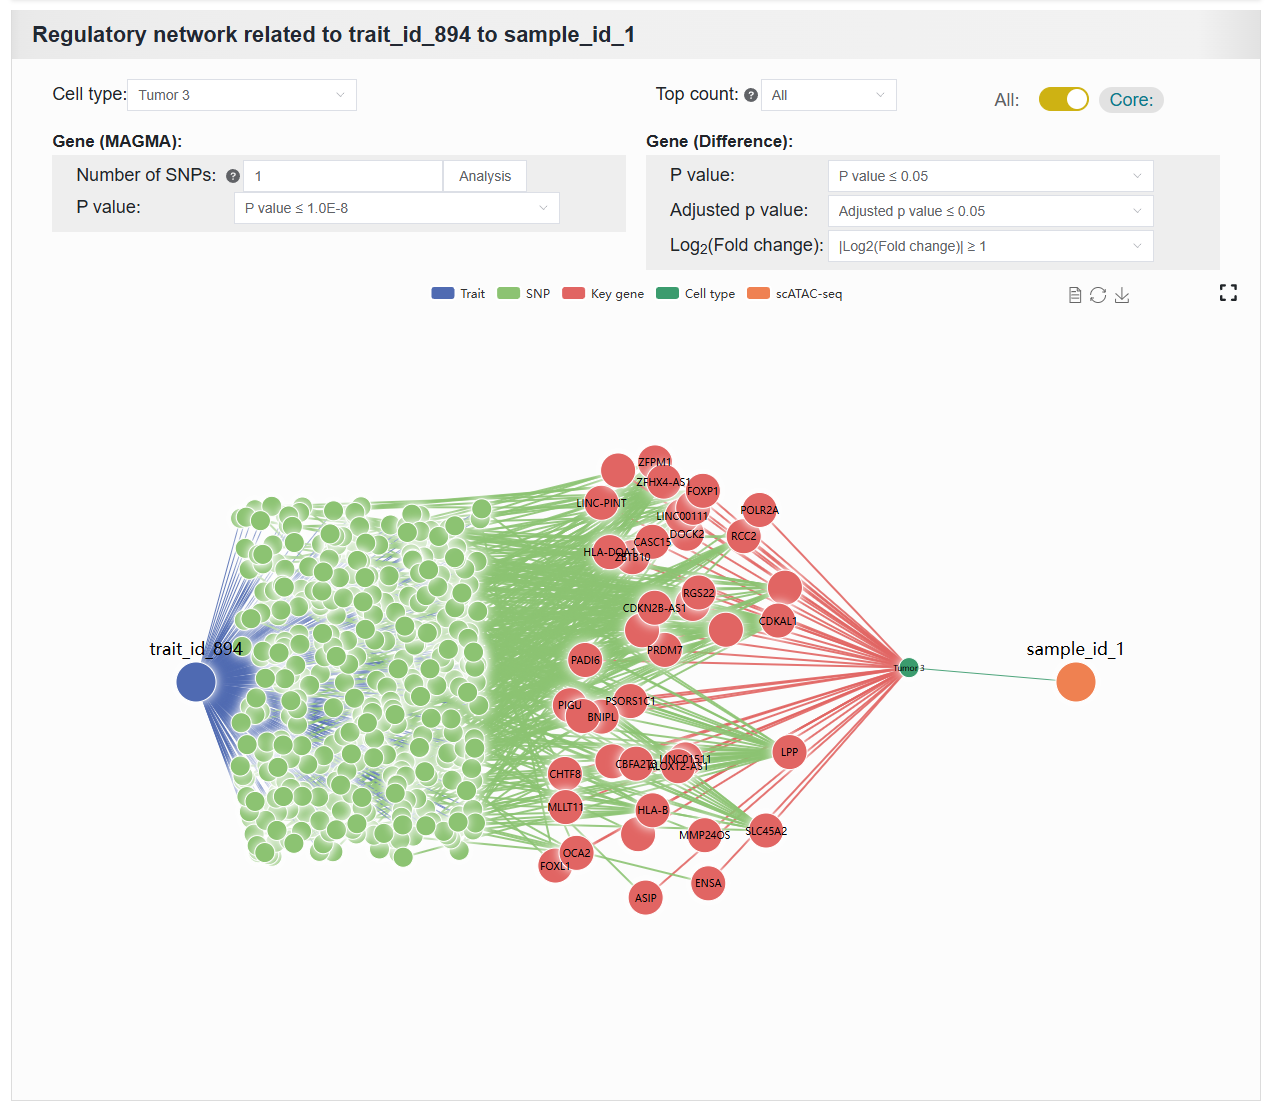
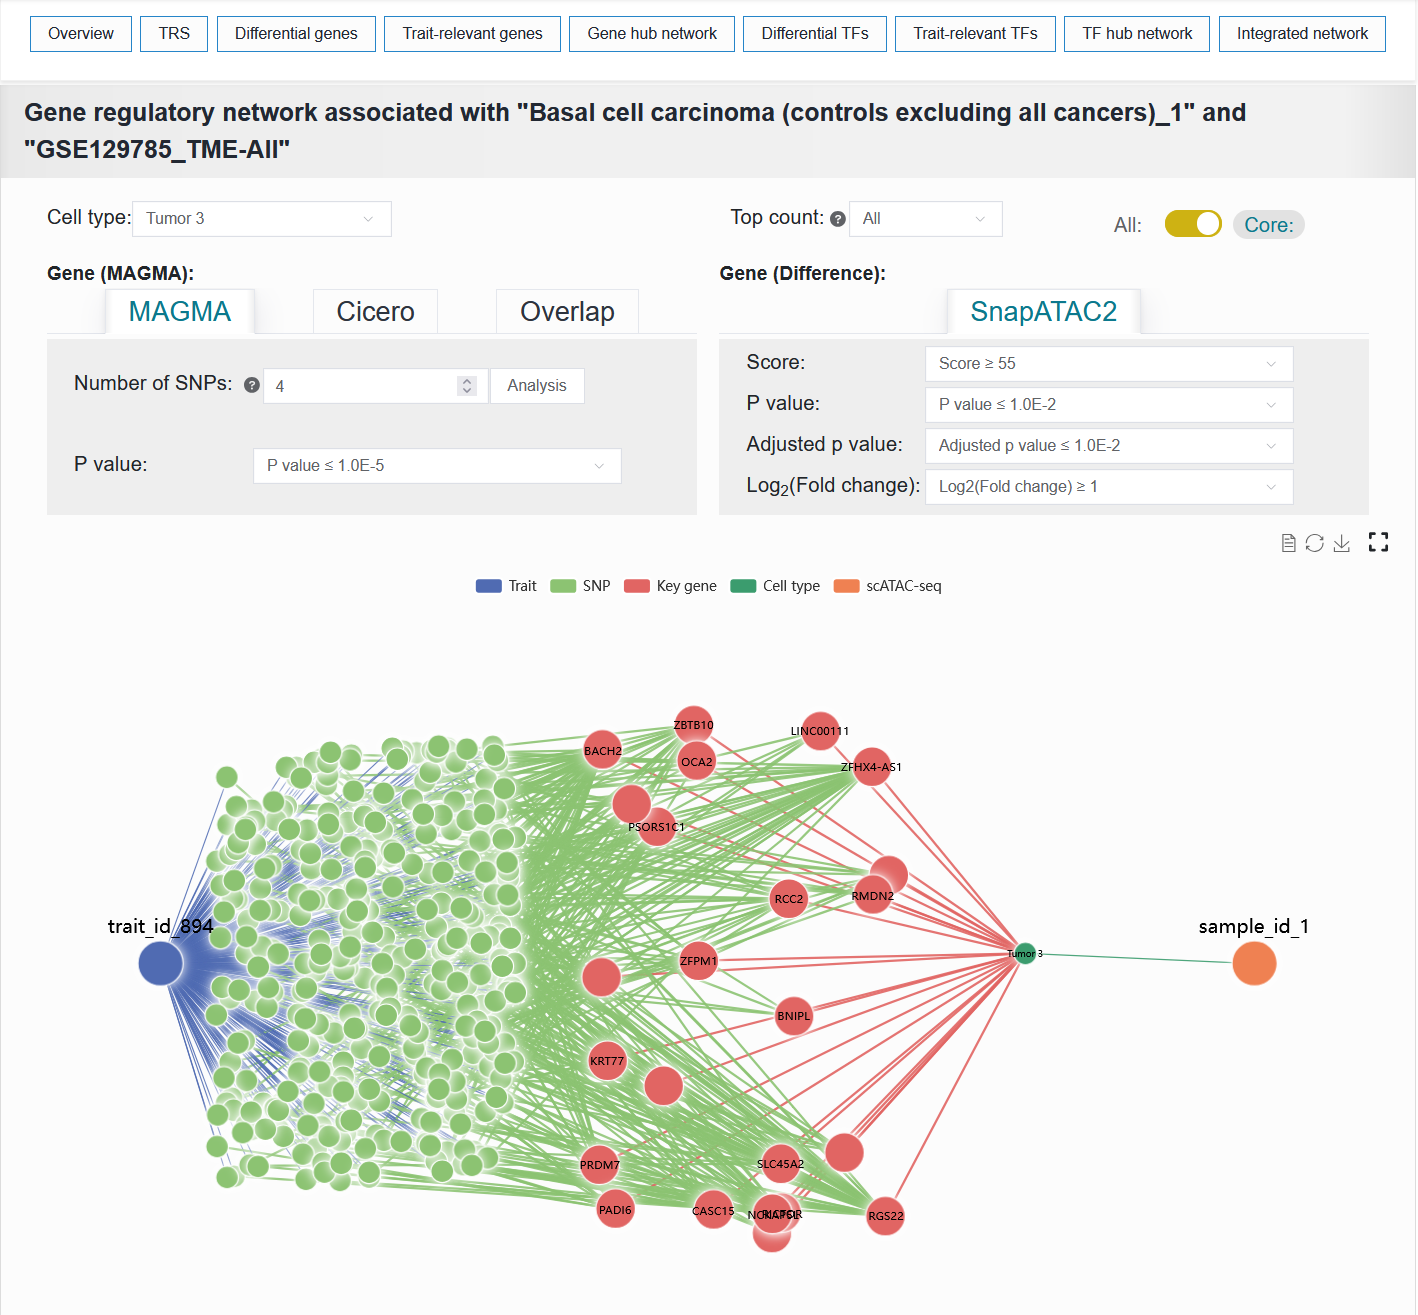
feat: Improve detail information

diff --git a/docs/source/usage/detail.rst b/docs/source/usage/detail.rst
@@ -213,6 +213,11 @@ For example: AD (sample_id_20 + trait_id_14530)
 2.4.4 Trait-relevant genes
 ^^^^^^^^^^^^^^^^^^^^^^^^^^^^^^^
 
+Users can select either the trait-relevant gene results or the V2G annotation information.
+
+2.4.4.1 Type: Trait-relevant genes
+""""""""""""""""""""""""""""""""""""
+
 For a selected trait, scVMAP displays:
 
 1. ``MAGMA``: A table of gene-level analysis results from LD-based MAGMA and a bubble plot showing the results of the gene pathway enrichment analysis for the genes associated with the LD-based MAGMA analysis.
@@ -222,11 +227,32 @@ For example: BCC (sample_id_1 + trait_id_894)
 
 .. image:: ../img/detail/trait_relevant_gene.png
 
+In gene set enrichment analysis, setting the ``P value`` to ``≤ 1.0E-6`` allows for the reproduction of the results for the BCC case study presented in the paper.
+
+.. image:: ../img/detail/trait_relevant_gene_gsea.png
+
 Enter ``RCC2``, then click the ``View`` button to see detailed variant information associated with this gene.
 
 .. image:: ../img/detail/magma_view.png
 
+For example: AD (sample_id_20 + trait_id_14530)
 
+Clicking the "View overlap" button displays the overlap between the gene sets derived from the selected trait (e.g. trait_id_14530) through ATAC-based Cicero and LD-MAGMA analyses. (The reproduction of the results for the AD case study presented in the paper.)
+
+.. image:: ../img/detail/trait_relevant_gene_overlap.png
+
+1. Gene overlap information: The overlap of gene sets identified by the two methods.
+#. Overlapping gene-relevant SNPs network: This network consists solely of SNPs associated with overlapping genes. Here, the ``SNP (Both)`` refers to the intersection of the SNP sets associated with overlapping genes that were identified by both methods.
+#. Number of overlapping SNP-relevant genes in overlapping gene contexts: The plot shows overlapping SNPs annotated by the number of overlapping genes. The x-axis represents the overlapping SNPs, and the y-axis represents the number of overlapping genes associated with each SNP.
+
+2.4.4.2 Type: V2G annotation
+""""""""""""""""""""""""""""""""
+
+For a selected trait, any variant within the trait is annotated if it is present in eQTL, MPRA, and 3D chromatin interaction data.
+
+For example: AD (sample_id_20 + trait_id_14530)
+
+.. image:: ../img/detail/trait_relevant_gene_v2g_annotation.png
 
 
 2.4.5 Gene hub network
@@ -234,6 +260,21 @@ Enter ``RCC2``, then click the ``View`` button to see detailed variant informati
 
 To systematically investigate the association mechanisms between target traits and specific cell types, we integrated data from two key dimensions: the genetic variation dimension (trait-SNP-effect gene association data) and the cell-type-specific dimension (sample-cell type-differential gene), to construct a trait-cell type association network. This network helps reveal the multi-level regulatory paths through which traits influence cell types and identifies core gene sets.
 
+For example: BCC (sample_id_1 + trait_id_894)
+
+The ``Gene hub network`` result of the BCC case can be reproduced with the following parameter settings:
+
+ | Cell type: ``Tumor 3``
+ | Top count: ``All``
+ | ``Core``
+ | Gene (MAGMA): ``MAGMA``
+ |     Number of SNPs: ``4``
+ |     P value: ``≤ 1.0E-5``
+ | Gene (Difference):
+ |     Score: ``≥ 55``
+ |     P value: ``≤ 1.0E-2``
+ |     Adjusted p value: ``≤ 1.0E-2``
+ |     Log2(Fold change): ``≥ 1``
 
 
 .. image:: ../img/detail/gene_hub_network.png
@@ -246,6 +287,8 @@ To systematically investigate the association mechanisms between target traits a
 ^^^^^^^^^^^^^^^^^^^^^^^^^^^^^^^
 
 It displays a data table and heatmap of the differences TF between cell types.
+
+For example: BCC (sample_id_1 + trait_id_894)
 
 .. image:: ../img/detail/differential_tfs.png
 
@@ -261,4 +304,47 @@ It displays the results of TF enrichment analysis for this trait using HOMER.
 
 Similar to panel ``Gene hub network``, this panel constructs a network graph from trait to cell type to identify key TFs involved in the regulatory process.
 
+The ``TF hub network`` result of the BCC case can be reproduced with the following parameter settings:
+
+ | Cell type: ``Tumor 3``
+ | ``All``
+ | Trait-relevant TFs: ``HOMER``
+ |     P value: ``≤ 0.05``
+ |     Q value: ``≤ 0.05``
+ | TF (Difference): ``SnapATAC2``
+ |     P value: ``≤ 0.05``
+ |     Adjusted p value: ``≤ 0.05``
+ |     Log2(Fold change): ``≥ 0.6``
+
 .. image:: ../img/detail/tf_hub_network.png
+
+2.4.9 Integrated network
+^^^^^^^^^^^^^^^^^^^^^^^^^^^^^^^
+
+This module visualizes the integrated network composed of traits, variants, TFs, genes and cell types.
+
+To facilitate understanding of how traits influence biological functions and disease susceptibility through specific cell types, we constructed a trait-cell type association network linked by genes and TFs, termed the gene-TF co-regulatory network. This integrative network leverages open chromatin as a bridge to capture the interaction links among genes, TFs, and variants, thereby establishing the core architecture of the regulatory landscape. In this three-way relationship, V2G and V2TF are obtained from the aforementioned the trait-relevant genes and TFs process. The TF-to-gene (TF2G) linking strategy is established based on peak co-accessibility associations, utilizing the BEDTools tool. Furthermore, numerous susceptibility-associated variant sites have been documented for traits or diseases, thereby establishing a trait-variant association network. Meanwhile, in single-cell samples, cell type-specific differentially active genes and TFs form gene and TF-cell type association networks. Thus, a comprehensive regulatory landscape network connecting traits to cell types is formed. Genes and transcription factors that lie along the trait-to-cell-type pathways are defined as key genes and key transcription factors.
+
+For example: AD (sample_id_20 + trait_id_14530)
+
+The ``Integrated network`` result of the AD case can be reproduced with the following parameter settings:
+
+ | Cell type: ``MG``
+ | ``Coordinates``
+ | TF (GimmeMotifs):
+ |     Co-score: ``≥ 0.2``
+ |     Mean score: ``≥ 12``
+ |     Count: ``≥ 1``
+ | TF (Difference): ``SnapATAC2``
+ |     P value: ``≤ 1.0E-2``
+ |     Adjusted p value: ``≤ 1.0E-2``
+ |     Log2(Fold change): ``≥ 0.7``
+ | Gene (Cicero): ``Cicero``
+ |     Co-score: ``≥ 0.3``
+ | Gene (Difference): ``SnapATAC2``
+ |     Score: ``≥ 3``
+ |     P value: ``≤ 1.0E-125``
+ |     Adjusted p value: ``≤ 1.0E-125``
+ |     Log2(Fold change): ``≥ 0.6``
+
+.. image:: ../img/detail/integrated_network.png
